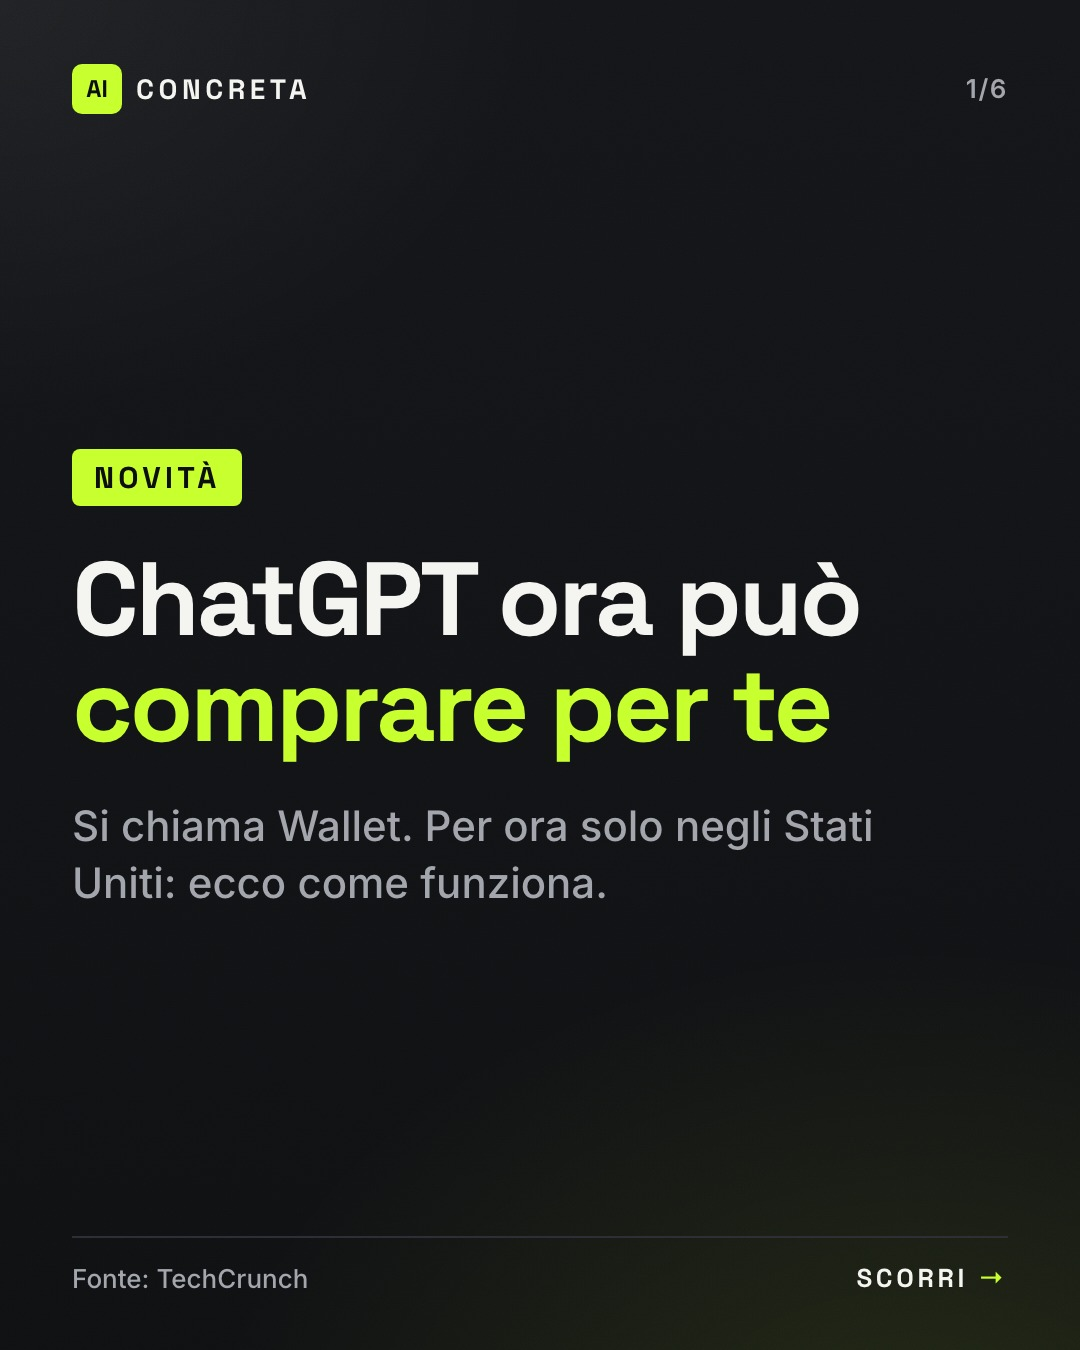
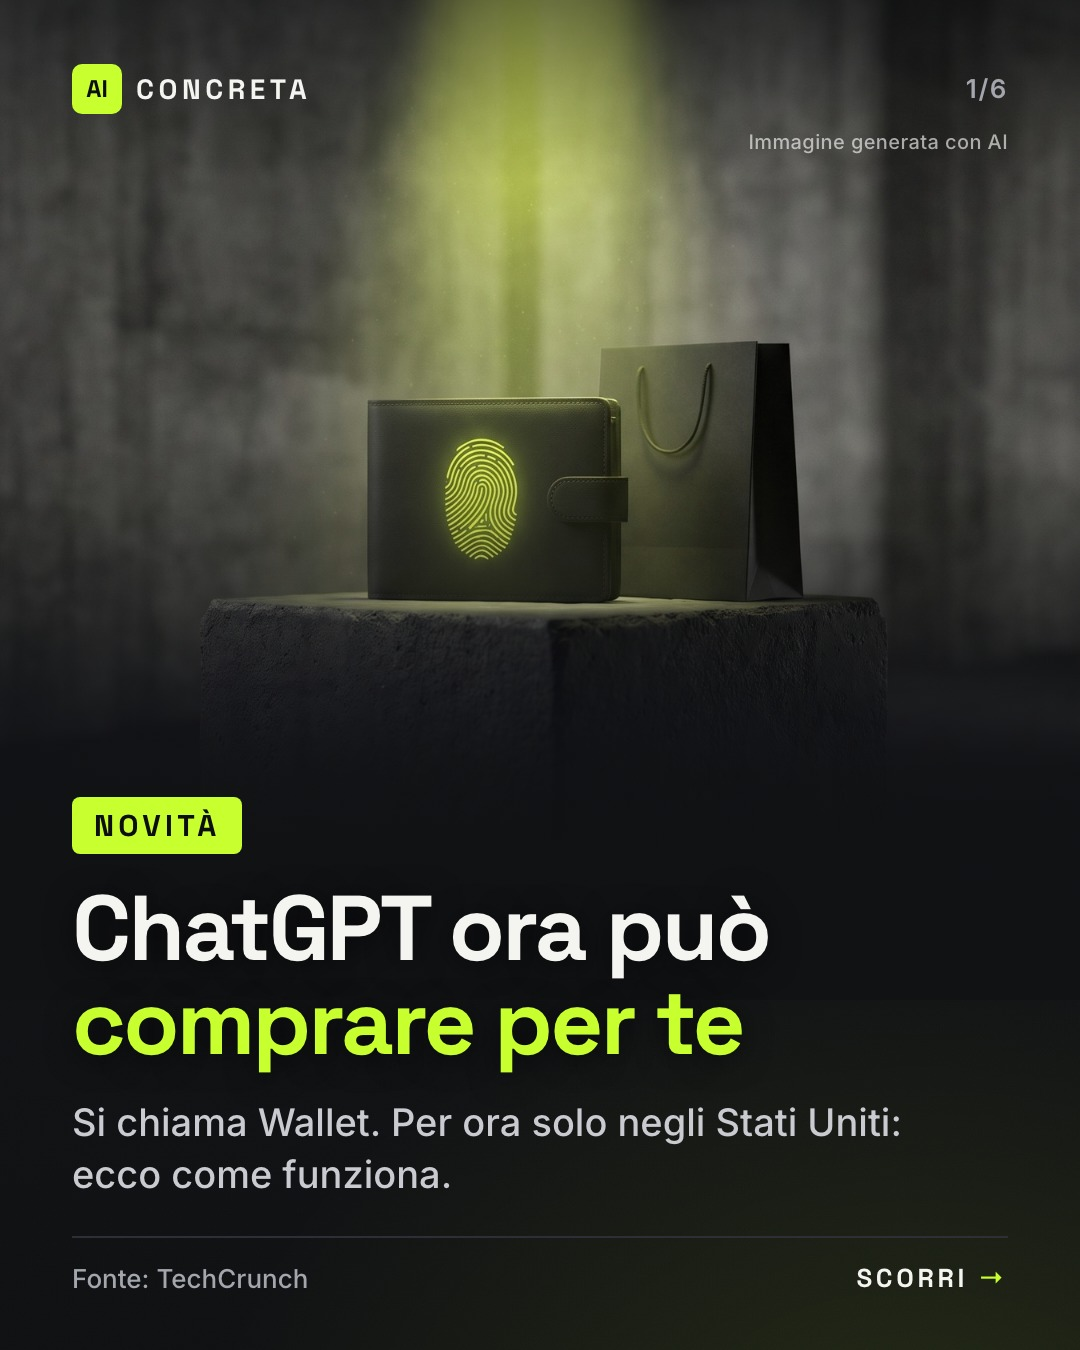
Cover images: AI-generated in the house style, or the company's official image with a credit

diff --git a/render/style.css b/render/style.css
@@ -82,3 +82,14 @@ h2 { font: 700 calc(70px * var(--k))/1.06 "Space Grotesk"; letter-spacing: -0.02
 .pp { text-align: center; color: var(--ink); }
 .pp .ai { font: 700 520px/0.8 "Space Grotesk"; letter-spacing: -0.06em; }
 .pp .word { margin-top: 40px; font: 700 92px/1 "Space Grotesk"; letter-spacing: .14em; }
+
+/* cover with a picture: the image fills the top, fades into the background, the text sits in the bottom part */
+.pic { position: absolute; inset: 0 0 auto 0; height: 1000px; z-index: 1; }
+.pic img { width: 100%; height: 100%; object-fit: cover; display: block; }
+.pic .fade { position: absolute; inset: 0; background: linear-gradient(180deg, rgba(17,18,20,.55) 0%, rgba(17,18,20,0) 18%,
+  rgba(17,18,20,0) 45%, rgba(17,18,20,.85) 78%, #111214 100%); }
+.pic .credit { position: absolute; right: 72px; top: 132px; font: 500 20px/1 "Inter"; color: rgba(255,255,255,.62); letter-spacing: .02em; }
+#stage.has-img .content { top: 560px; justify-content: flex-end; }
+#stage.has-img h1 { font-size: calc(92px * var(--k)); text-shadow: 0 4px 30px rgba(0,0,0,.6); }
+#stage.has-img .sub { margin-top: calc(28px * var(--k)); font-size: calc(38px * var(--k)); color: #c9cbd0; }
+#stage.has-img .kicker { margin-bottom: calc(28px * var(--k)); }

diff --git a/tools/images.py b/tools/images.py
@@ -1,0 +1,76 @@
+#!/usr/bin/env python3
+"""Cover images. A cover gets its picture from, in order:
+  1. drafts/<id>/cover.jpg (or .png/.webp): an official image from the company's own announcement, saved by the drafting agent
+     (credit it with "image_credit" on the cover slide), or one you add by hand;
+  2. media/<id>/cover-ai.jpg: generated earlier from the cover's "image_prompt";
+  3. generated now with Gemini from "image_prompt" (house style below), if GEMINI_API_KEY or ~/.config/gemini/api-key exists.
+Without any of these the cover stays typographic.
+
+    python3 tools/images.py drafts/<id>/post.json      # generate (or regenerate) the AI cover for one draft
+"""
+import base64, json, os, sys, urllib.error, urllib.request
+
+ROOT = os.path.dirname(os.path.dirname(os.path.abspath(__file__)))
+MODEL = os.environ.get("GEMINI_IMAGE_MODEL", "gemini-3-pro-image-preview")
+KEY_FILE = os.path.expanduser("~/.config/gemini/api-key")
+STYLE = (
+    "Editorial cover image for an Italian tech news page. Photorealistic, cinematic 3D render. Dark charcoal environment "
+    "with raw concrete textures, one acid-lime (#c8ff2e) accent light, soft volumetric light, shallow depth of field. "
+    "One clear subject in the upper half of the frame; the bottom third is dark, calm negative space (text goes there). "
+    "No text, no letters, no numbers, no logos, no brand marks, no real people, no readable screens."
+)
+
+
+def api_key():
+    if os.environ.get("GEMINI_API_KEY"):
+        return os.environ["GEMINI_API_KEY"].strip()
+    if os.path.isfile(KEY_FILE):
+        return open(KEY_FILE).read().strip()
+    return None
+
+
+def generate(subject, key):
+    body = {"contents": [{"parts": [{"text": f"{STYLE}\n\nSubject: {subject}"}]}],
+            "generationConfig": {"responseModalities": ["IMAGE"], "imageConfig": {"aspectRatio": "4:5", "imageSize": "2K"}}}
+    req = urllib.request.Request(f"https://generativelanguage.googleapis.com/v1beta/models/{MODEL}:generateContent",
+                                 data=json.dumps(body).encode(), method="POST",
+                                 headers={"Content-Type": "application/json", "x-goog-api-key": key})
+    try:
+        with urllib.request.urlopen(req, timeout=180) as r:
+            data = json.load(r)
+    except urllib.error.HTTPError as e:
+        raise RuntimeError(f"Gemini HTTP {e.code}: {e.read().decode()[:300]}") from None
+    for part in data.get("candidates", [{}])[0].get("content", {}).get("parts", []):
+        if "inlineData" in part:
+            return base64.b64decode(part["inlineData"]["data"])
+    raise RuntimeError("Gemini returned no image: " + json.dumps(data)[:300])
+
+
+def cover_image(post, regenerate=False):
+    """(path to the cover picture or None, credit text or None)."""
+    pid, cover = post["id"], post["slides"][0]
+    for ext in ("jpg", "jpeg", "png", "webp"):
+        p = os.path.join(ROOT, "drafts", pid, f"cover.{ext}")
+        if os.path.isfile(p):
+            return p, cover.get("image_credit")
+    if not cover.get("image_prompt"):
+        return None, None
+    ai = os.path.join(ROOT, "media", f"{pid}-cover-ai.jpg")
+    if os.path.isfile(ai) and not regenerate:
+        return ai, None
+    key = api_key()
+    if not key:
+        print(f"{pid}: no Gemini key, cover stays typographic")
+        return None, None
+    from PIL import Image
+    import io
+    img = Image.open(io.BytesIO(generate(cover["image_prompt"], key))).convert("RGB")
+    img.thumbnail((1350, 1688))
+    os.makedirs(os.path.dirname(ai), exist_ok=True)
+    img.save(ai, quality=90)
+    return ai, None
+
+
+if __name__ == "__main__":
+    post = json.load(open(sys.argv[1], encoding="utf-8"))
+    print(cover_image(post, regenerate=True))

diff --git a/render/render.py b/render/render.py
@@ -90,11 +90,15 @@ class Browser:
 
 
 # ---------------------------------------------------------------- slides
-def frame(inner, page, total, kind_label=None, source=None, last=False):
+def frame(inner, page, total, kind_label=None, source=None, last=False, image=None, credit=None):
     top = f'<div class="top"><div class="brand"><b>AI</b>CONCRETA</div><div class="pg">{page}/{total}</div></div>'
     left = esc(f"Fonte: {source}") if source else HANDLE
     right = "" if last else '<span class="next">Scorri <i>→</i></span>'
-    return (f'<div class="bg"></div><div class="grain"></div>{top}<div class="content">{inner}</div>'
+    pic = ""
+    if image:
+        tag = esc(f"Immagine: {credit}") if credit else "Immagine generata con AI"
+        pic = f'<div class="pic"><img src="file://{image}"><div class="fade"></div><span class="credit">{tag}</span></div>'
+    return (f'<div class="bg"></div>{pic}<div class="grain"></div>{top}<div class="content">{inner}</div>'
             f'<div class="rule"></div><div class="bottom"><span>{left}</span>{right}</div>')
 
 
@@ -122,7 +126,7 @@ def slide_html(s, kind):
     raise ValueError(t)
 
 
-def render_post(post_path, out_dir=None):
+def render_post(post_path, out_dir=None, with_images=True):
     post = json.load(open(post_path, encoding="utf-8"))
     problems = postspec.check(post, os.path.basename(os.path.dirname(os.path.abspath(post_path))))
     if problems:
@@ -133,6 +137,13 @@ def render_post(post_path, out_dir=None):
     for s in slides:
         if s["type"] == "point":
             n += 1; s["_n"] = n
+    image, credit = (None, None)
+    if with_images:
+        import images
+        try:
+            image, credit = images.cover_image(post)
+        except Exception as e:                                    # no picture is better than no post
+            print(f"{post['id']}: cover image failed ({e}), typographic cover")
     tmp = out_dir + ".tmp"
     shutil.rmtree(tmp, ignore_errors=True); os.makedirs(tmp)
     bad, b = [], Browser()
@@ -140,7 +151,9 @@ def render_post(post_path, out_dir=None):
         for i, s in enumerate(slides, 1):
             inner, cls = slide_html(s, post["kind"])
             source = post["sources"][0]["name"] if s["type"] == "cover" and post.get("sources") else None
-            im, fit = b.shot(frame(inner, i, len(slides), source=source, last=i == len(slides)), "s-" + cls, FEED)
+            pic = image if s["type"] == "cover" else None
+            im, fit = b.shot(frame(inner, i, len(slides), source=source, last=i == len(slides), image=pic, credit=credit),
+                             "s-" + cls + (" has-img" if pic else ""), FEED)
             im.save(os.path.join(tmp, f"{i:02d}.jpg"), quality=92, optimize=True)
             if fit["overflow"]:
                 bad.append(f"slide {i} ({s['type']}): text does not fit")

diff --git a/tools/postspec.py b/tools/postspec.py
@@ -8,7 +8,9 @@
                                                 # (evergreen prompt posts: "evergreen:<slug>", sources may be [])
   "sources": [{"name": "Google", "url": "https://blog.google/..."}],
   "slides": [                                   # 3-7 slides; the closing "follow" slide is added automatically
-    {"type": "cover", "title": "Gemini ora *scrive le mail* al posto tuo", "sub": "optional line under the title"},
+    {"type": "cover", "title": "Gemini ora *scrive le mail* al posto tuo", "sub": "optional line under the title",
+     "image_prompt": "English scene description for the AI cover (see BRAND.md)",   # optional
+     "image_credit": "Google"},                 # only with drafts/<id>/cover.jpg from the company's own announcement
     {"type": "point", "title": "...", "body": "..."},
     {"type": "list", "title": "...", "items": ["...", "..."]},
     {"type": "prompt", "title": "...", "prompt": "...", "note": "optional"},
@@ -23,7 +25,7 @@ import datetime, re
 
 KINDS = {"news": "Novità", "tool": "Tool", "prompt": "Prompt", "italia": "Italia"}
 LIMITS = {  # characters
-    "cover.title": 80, "cover.sub": 140, "point.title": 70, "point.body": 300, "list.title": 70, "list.item": 110,
+    "cover.title": 80, "cover.sub": 140, "cover.image_prompt": 500, "cover.image_credit": 40, "point.title": 70, "point.body": 300, "list.title": 70, "list.item": 110,
     "prompt.title": 70, "prompt.prompt": 420, "prompt.note": 120, "concreto.item": 120, "caption": 1600,
 }
 AI_NOTE = "Contenuto preparato con l'aiuto dell'AI e verificato dalla redazione."
@@ -73,6 +75,10 @@ def check(post, folder_name=None):
             length("cover.title", s.get("title"))
             if s.get("sub"):
                 length("cover.sub", s["sub"])
+            if s.get("image_prompt"):
+                length("cover.image_prompt", s["image_prompt"])
+            if s.get("image_credit"):
+                length("cover.image_credit", s["image_credit"])
         elif t == "point":
             length("point.title", s.get("title")); length("point.body", s.get("body"))
         elif t == "list":

diff --git a/README.md b/README.md
@@ -7,7 +7,7 @@ by a human on Telegram** before anything is published.
 06:30  Claude Code (scheduled cloud agent, DRAFTING.md) ── writes 3 drafts ──► drafts/<id>/post.json ──► git push
           │
 GitHub Actions, every 10 min (pipeline.py)
-          ├─ render   drafts → media/<id>/NN.jpg (headless Chrome)
+          ├─ render   drafts → media/<id>/NN.jpg (headless Chrome; AI cover image via Gemini)
           ├─ notify   album + caption + buttons on Telegram
           ├─ poll     ✅ Programma (next free slot: 12:30 / 18:30) · ⚡ Subito · ❌ Scarta · ↩ Annulla
           ├─ expire   unanswered after 36 h
@@ -45,15 +45,18 @@ python3 tools/fetch_feeds.py                        # today's uncovered news
 3. **Instagram**: @aiconcreta must be a professional (Creator or Business) account linked to a Facebook Page. Get a Page
    token the same way as for @fondamentali.gym (Meta app → Facebook Login → long-lived Page token) and its IG user id.
    Repo secrets: `IG_TOKEN`, `IG_USER_ID`.
-4. **Drafting agent**: a Claude Code scheduled cloud agent on this repo, daily at 06:30 Europe/Rome, prompt:
+4. **Cover images**: repo secret `GEMINI_API_KEY` (the same Google AI Studio key as for the Colosso photos, about €0.12 per
+   cover). Without it the covers stay typographic.
+5. **Drafting agent**: a Claude Code scheduled cloud agent on this repo, daily at 06:30 Europe/Rome, prompt:
    "Follow DRAFTING.md."
-5. Watch a few days in **test mode** (Telegram tells you what it would have published). Then repo variable `LIVE` = `true`.
+6. Watch a few days in **test mode** (Telegram tells you what it would have published). Then repo variable `LIVE` = `true`.
    Optional variable `SLOTS` (default `12:30,18:30`).
 
 ## Rules
 - Nothing is published without a ✅ or ⚡ on Telegram. Only the configured chat can approve.
 - A post is published once (`state/posts.json`), at most one per run, and never more than 12 hours late.
 - Captions end with the source and "Contenuto preparato con l'aiuto dell'AI e verificato dalla redazione."
-- No photos, logos or screenshots of other people's content: the slides are typographic.
+- Cover pictures are AI-generated in the house style, or the company's own announcement image with a credit; never agency
+  photos, logos or other people's screenshots. Inner slides are typographic.
 
 TikTok comes later: its Content Posting API only posts privately until the app passes TikTok's audit.

diff --git a/BRAND.md b/BRAND.md
@@ -49,5 +49,16 @@ topic: `#produttività #lavoro #aiact #prompt #tecnologia #smartworking #pmi`). 
 
 ## Visual identity (render/style.css)
 Carbon background with a concrete grain, one accent: acid lime `#c8ff2e`. Space Grotesk for titles, Inter for text,
-JetBrains Mono for prompts. "In concreto" is the full-lime signature slide. No stock photos, no logos, no screenshots of other
-people's content (copyright): the design is typographic.
+JetBrains Mono for prompts. "In concreto" is the full-lime signature slide.
+
+## Cover images
+The cover has a picture on top (the inner slides stay typographic, they're for reading). Two kinds:
+1. **AI-generated (default):** write `image_prompt` on the cover slide: one or two English sentences describing a single,
+   concrete visual metaphor for the story (an object, a scene). The house style (dark concrete, one lime light, empty bottom
+   third) is added automatically. No people, faces, logos, brand names, text or screens; don't name products in the prompt.
+   The slide shows "Immagine generata con AI".
+   Good: "A matte black wallet on a concrete pedestal, a glowing fingerprint on its surface." Bad: "The ChatGPT logo on a phone".
+2. **Official image:** for a company's own announcement, the header image of that announcement page (usually its `og:image`)
+   may be saved as `drafts/<id>/cover.jpg`, with `"image_credit": "<Company>"` on the cover. Only images the company
+   published itself; never photos from agencies or newspapers (Reuters, Getty, ANSA…), never pictures of people.
+   When in doubt, use an AI image.

diff --git a/DRAFTING.md b/DRAFTING.md
@@ -28,6 +28,8 @@ Read `BRAND.md` first, every run. The accuracy rules there come before everythin
    - `id`: today's date + a short slug, e.g. `2026-11-16-gemini-gmail-riassunti` (max 48 characters).
    - `created`: now, ISO with timezone. `story_key`: the primary source URL. `sources`: the pages you used (name + url).
    - 4–6 slides total is the sweet spot: cover, 2–4 middle slides, "concreto".
+   - Cover picture: an `image_prompt` on the cover (see "Cover images" in BRAND.md), or the official announcement image
+     saved as `drafts/<id>/cover.jpg` plus `image_credit`. The workflow generates the AI image when it renders.
 7. `python3 tools/validate.py` and fix every problem it reports (it checks every draft, lengths, banned hype words).
 8. Re-read each draft once as the reader would: is every sentence true, clear, and useful? Is the cover title something you'd
    stop scrolling for, and does the post deliver what it promises?
